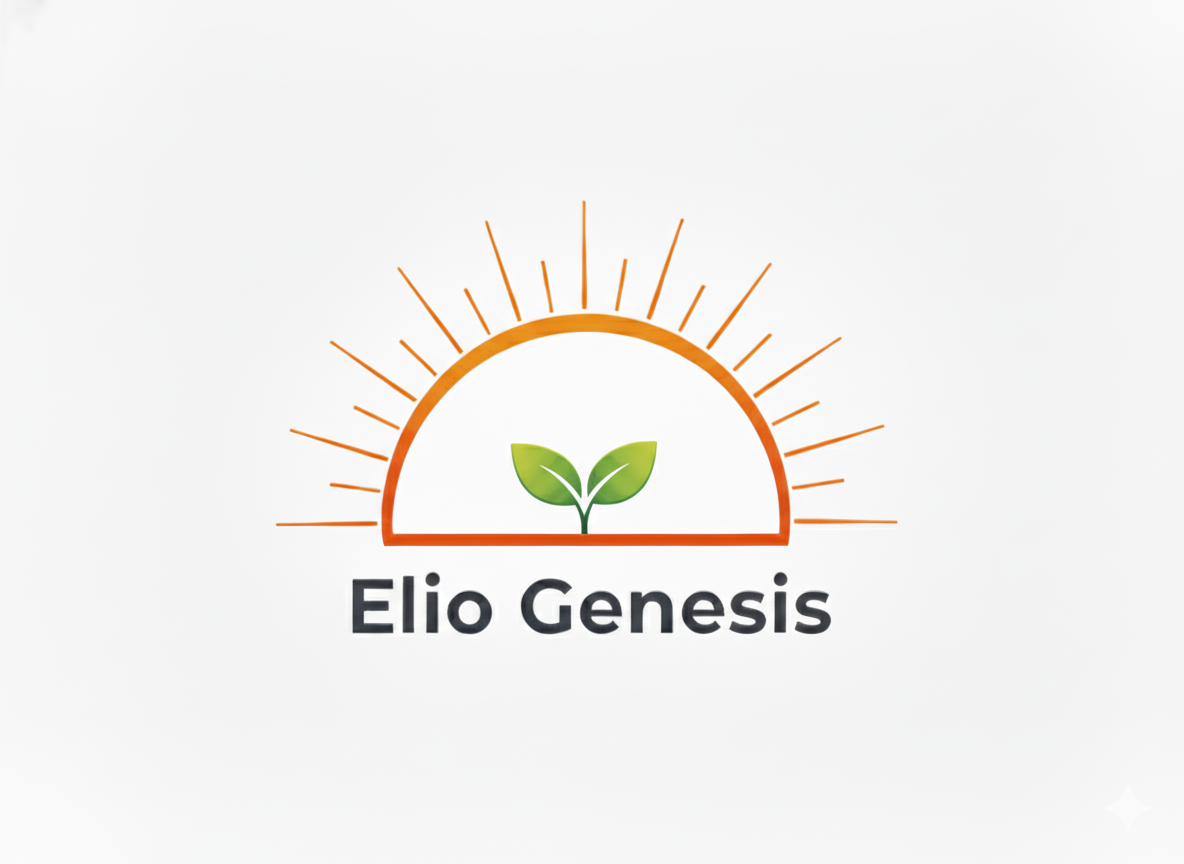
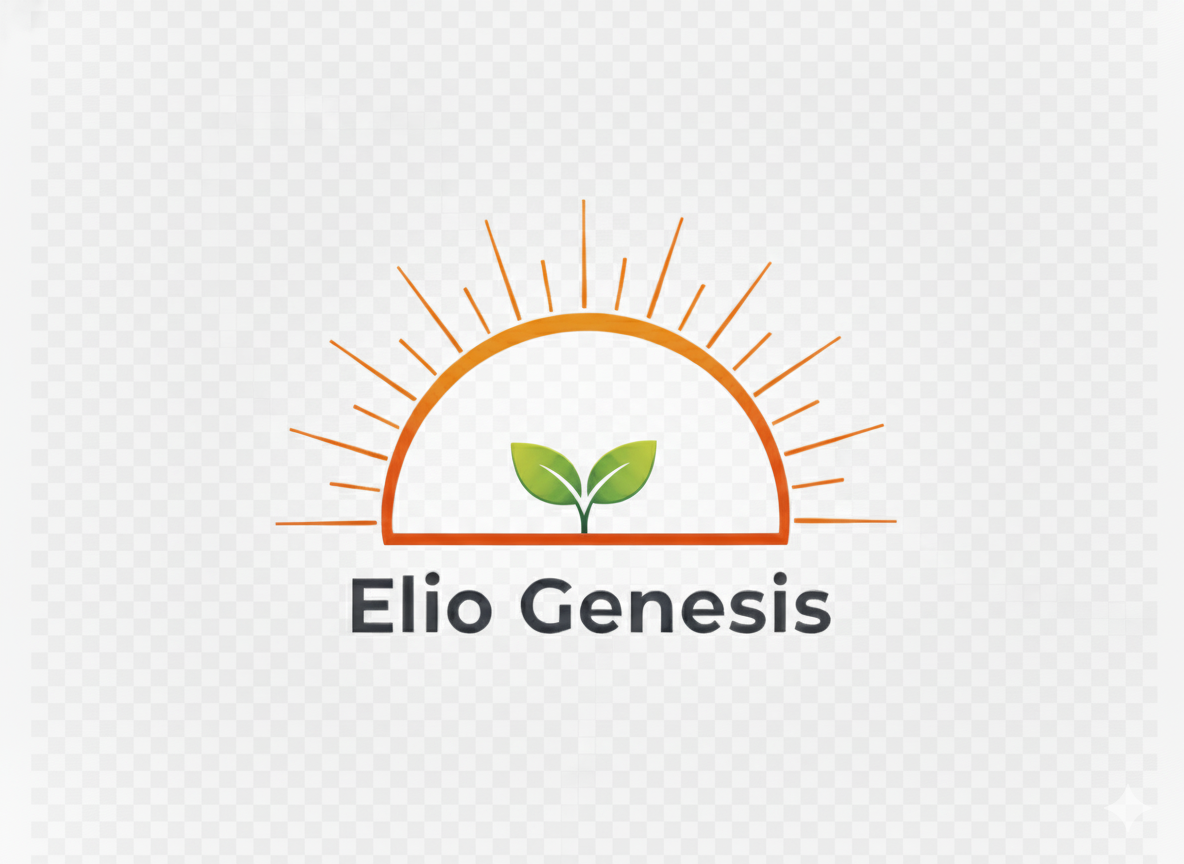
14 octb

diff --git a/index.html b/index.html
@@ -92,7 +92,7 @@
     <header class="bg-slate-900/70 backdrop-blur-xl border-b border-slate-700/50 shadow-sm sticky top-0 z-40">
         <nav class="container mx-auto px-6 py-4 flex items-center">
             <a href="#" class="mr-8">
-                <img src="Elio_Genesis.jpg" alt="Elio Genesis Corporation Logo" class="h-10">
+                <img src="Elio_Genesis.png" alt="Elio Genesis Corporation Logo" class="h-10">
             </a>
             <div class="hidden md:flex space-x-8">
                 <a href="#smart-hubs" data-key="navSmartHubs" class="text-slate-300 hover:text-cyan-400 transition-colors duration-300">Smart Hubs</a>
@@ -164,8 +164,8 @@
         </section>
 
         <!-- Full-width Video Section -->
-        <section class="w-full h-[75vh] bg-black flex justify-center items-center p-8">
-             <div class="h-full w-full max-w-7xl">
+        <section class="w-full bg-black flex justify-center items-center py-16 px-8">
+             <div class="h-[65vh] w-full max-w-6xl">
                 <video autoplay loop muted playsinline class="w-full h-full object-contain">
                     <source src="green_transformation.mp4" type="video/mp4">
                     Your browser does not support the video tag.
@@ -318,7 +318,7 @@
     <!-- Footer -->
     <footer class="bg-slate-900 border-t border-slate-800 py-6">
         <div class="container mx-auto px-6 flex flex-col sm:flex-row justify-center items-center text-center text-slate-500 gap-4">
-            <img src="Elio_Genesis.jpg" alt="Elio Genesis Corporation Logo" class="h-10">
+            <img src="Elio_Genesis.png" alt="Elio Genesis Corporation Logo" class="h-10">
             <div>
                  <p data-key="footerRights">&copy; 2025 Elio Genesis Corporation. All Rights Reserved.</p>
                  <p data-key="footerSlogan" class="text-sm mt-1">Pioneering Green Technology for Urban Environments.</p>
